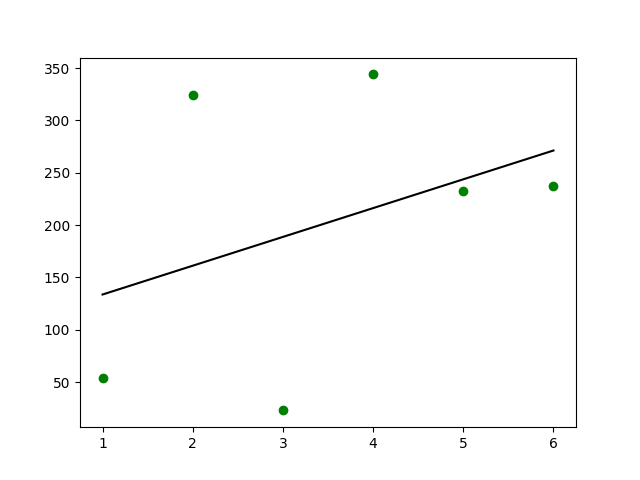
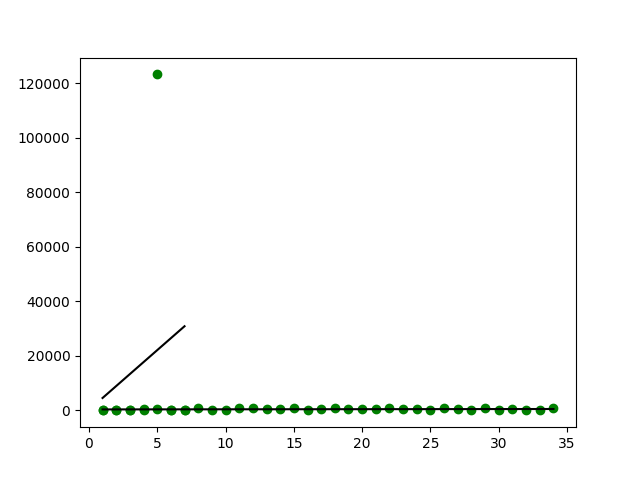
deploy: v1.01

diff --git a/Discord Bot.py b/Discord Bot.py
@@ -5,14 +5,18 @@ import random
 import graphviz
 import numpy as np
 import pandas as pd
-import pyarrow
+# import pyarrow
 import concurrent.futures
 import matplotlib.pyplot as plt
+from sklearn.neural_network import MLPClassifier
 import tensorflow as tf
+from tensorflow.keras.utils import plot_model
+from sklearn.datasets import make_classification
+from sklearn.model_selection import train_test_split
+import matplotlib.patches as patches
 import discord
 from enum import Enum
 from sklearn.linear_model import LinearRegression
-from tensorflow.keras.utils import plot_model
 from discord.ext import commands
 from discord import app_commands
 from discord.ui import Select, View, Button, Modal, TextInput
@@ -26,6 +30,17 @@ from discord.ui import Modal, TextInput
 from sklearn.linear_model import LinearRegression
 from keep_alive import keep_alive
 from discord.ui import Modal, TextInput
+
+# Configure SSL for macOS - must be done before any Discord imports
+import ssl
+import certifi
+try:
+    ssl_context = ssl.create_default_context(cafile=certifi.where())
+    ssl._create_default_https_context = lambda: ssl_context
+    print("SSL certificates configured successfully")
+except Exception as e:
+    print(f"SSL configuration warning: {e}")
+
 from sklearn.linear_model import LinearRegression
 
 
@@ -274,27 +289,68 @@ async def linear_regression_calculator(interaction, dataframe, feature_set, labe
 
 
 def train_neural_network():
-    (x_train, y_train), (x_test, y_test) = tf.keras.datasets.mnist.load_data()
-    x_train = x_train.reshape(-1, 28, 28, 1).astype('float32') / 255.0
-    x_test = x_test.reshape(-1, 28, 28, 1).astype('float32') / 255.0
+    try:
+        
+        print("Loading MNIST dataset...")
+        (x_train, y_train), (x_test, y_test) = tf.keras.datasets.mnist.load_data()
+        
+        x_train = x_train[:5000]
+        y_train = y_train[:5000]
+        x_test = x_test[:1000]
+        y_test = y_test[:1000]
+        
+        print("Preprocessing data...")
+        x_train = x_train.reshape(-1, 28, 28, 1).astype('float32') / 255.0
+        x_test = x_test.reshape(-1, 28, 28, 1).astype('float32') / 255.0
 
-    model = tf.keras.Sequential([
-        tf.keras.layers.Conv2D(32, (3, 3), activation='relu', input_shape=(28, 28, 1)),
-        tf.keras.layers.MaxPooling2D((2, 2)),
-        tf.keras.layers.Flatten(),
-        tf.keras.layers.Dense(64, activation='relu'),
-        tf.keras.layers.Dense(10, activation='softmax')
-    ])
+        print("Creating model...")
+        model = tf.keras.Sequential([
+            tf.keras.layers.Conv2D(32, (3, 3), activation='relu', input_shape=(28, 28, 1)),
+            tf.keras.layers.MaxPooling2D((2, 2)),
+            tf.keras.layers.Flatten(),
+            tf.keras.layers.Dense(64, activation='relu'),
+            tf.keras.layers.Dense(10, activation='softmax')
+        ])
 
-    model.compile(optimizer='adam', loss='sparse_categorical_crossentropy', metrics=['accuracy'])
-    model.fit(x_train, y_train, epochs=1, validation_data=(x_test, y_test))
-    plot_model(model, to_file='model_architecture.png', show_shapes=True, show_layer_names=True)
+        print("Compiling model...")
+        model.compile(optimizer='adam', loss='sparse_categorical_crossentropy', metrics=['accuracy'])
+        
+        print("Training model...")
+        history = model.fit(
+            x_train, y_train, 
+            epochs=1, 
+            validation_data=(x_test, y_test), 
+            verbose=0,
+            batch_size=32
+        )
+        
+        train_acc = history.history['accuracy'][-1]
+        val_acc = history.history['val_accuracy'][-1]
+        print(f"Training accuracy: {train_acc:.4f}")
+        print(f"Validation accuracy: {val_acc:.4f}")
+        
+        try:
+            print("Saving model architecture...")
+            plot_model(model, to_file='model_architecture.png', show_shapes=True, show_layer_names=True)
+            print("Model architecture saved successfully!")
+        except Exception as plot_error:
+            print(f"Warning: Could not save model plot: {plot_error}")
+        
+        print("Neural network training completed successfully!")
+        return True
+        
+    except Exception as e:
+        print(f"Error during neural network training: {e}")
+        import traceback
+        traceback.print_exc()
+        return False
 
 async def train(ctx):
     # await ctx.followup.send("Training the neural network, this may take a while...")
     loop = asyncio.get_running_loop()
     with concurrent.futures.ThreadPoolExecutor() as pool:
-        await loop.run_in_executor(pool, train_neural_network)
+        result = await loop.run_in_executor(pool, train_neural_network)
+        return result
 
 
 class GraphLRView(View):
@@ -607,9 +663,13 @@ class CreateNNView(View):
 
         loop = asyncio.get_running_loop()
         with concurrent.futures.ThreadPoolExecutor() as pool:
-            await loop.run_in_executor(pool, train_neural_network)  # Run training asynchronously
+            result = await loop.run_in_executor(pool, train_neural_network)  # Run training asynchronously
 
-        await interaction.followup.send("Training complete! Model is ready.", ephemeral=True)
+        if result:
+            await interaction.followup.send("Training complete! Model is ready.", ephemeral=True)
+        else:
+            await interaction.followup.send("Training failed. Please check the logs.", ephemeral=True)
+            
         print(f"[DEBUG @ 548] Removed active interaction for user {interaction.user.id} due to invalid input.")
         del bot_state.active_interactions[interaction.user.id]
 
@@ -637,7 +697,6 @@ async def interaction_perm_check(interaction: discord.Interaction):
         del bot_state.active_interactions[interaction.user.id]
         # bot_state.graphlr_active_interactions.discard(interaction)
         return False
-
 
 async def check_user_instances(interaction: discord.Interaction):
     """Checks if a user has an ongoing interaction and prevents new ones."""
